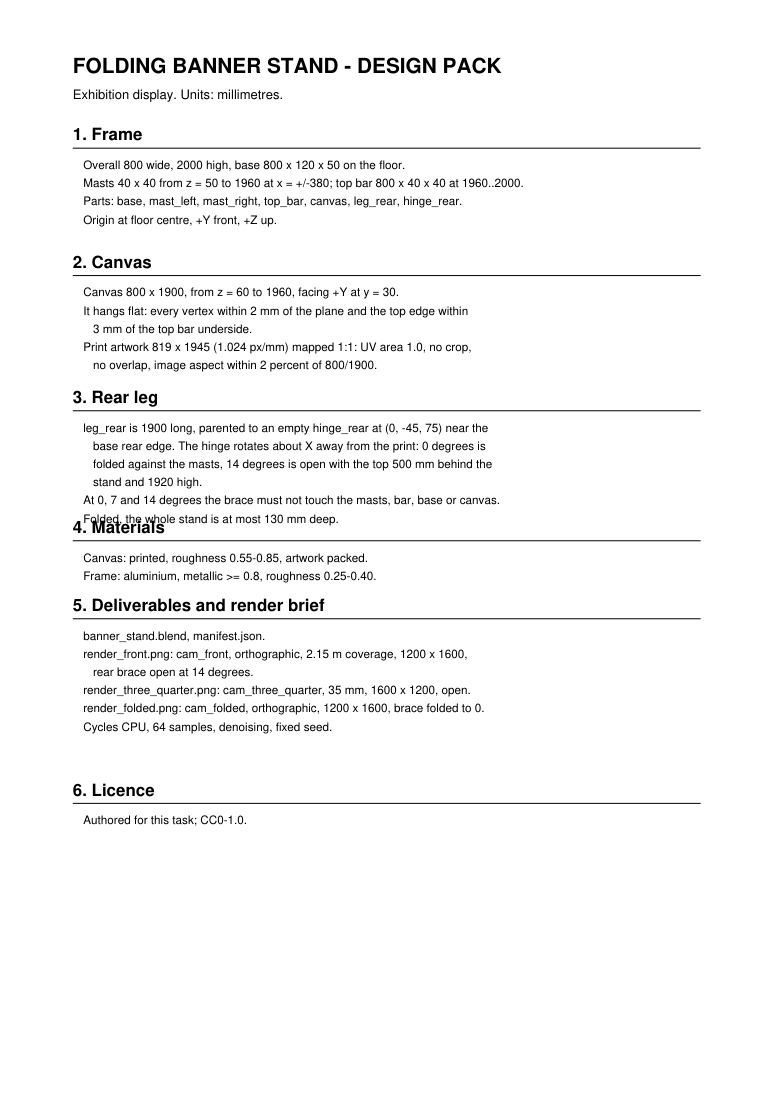
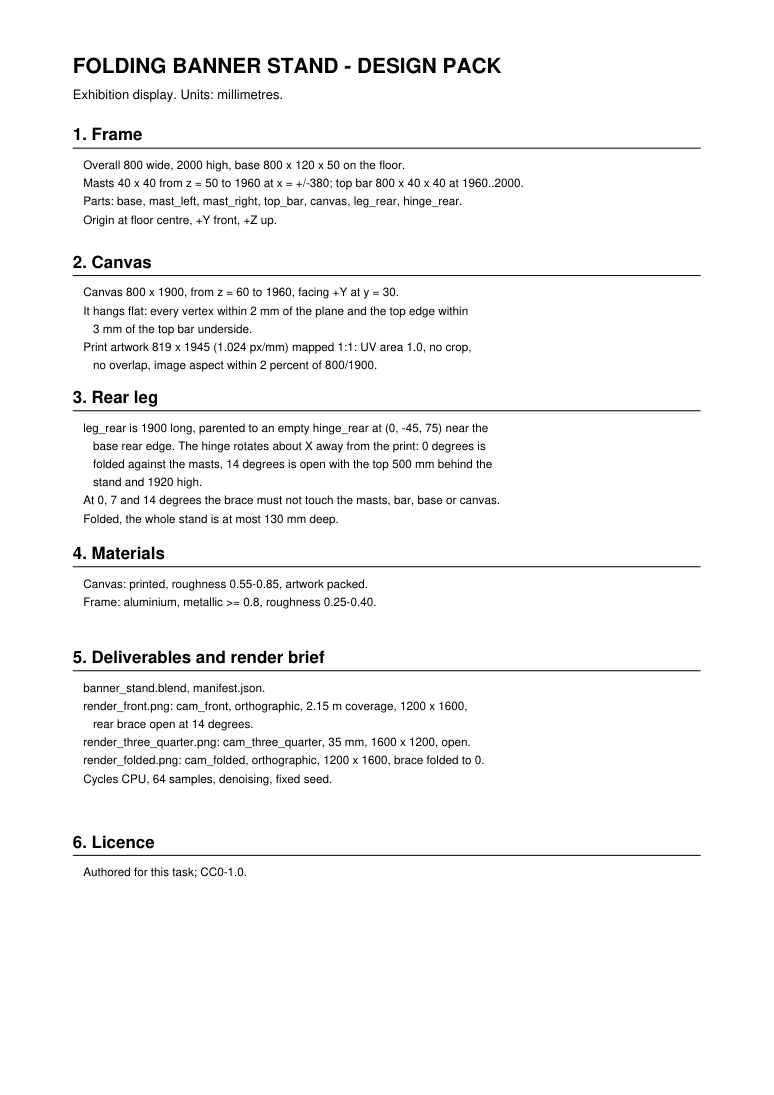
auto sync 2026-11-28 14:01:41

Changed region(s): [[0.093, 0.4658, 0.6202, 0.8073]]

diff --git a/tasks/cua/banner-stand/authoring/make_materials.py b/tasks/cua/banner-stand/authoring/make_materials.py
@@ -117,13 +117,13 @@ def spec_pdf(path):
         "Folded, the whole stand is at most 130 mm deep.",
     ]):
         pdf.text(64, 332 + 14 * i, line, 9)
-    heading(410, "4. Materials")
+    heading(430, "4. Materials")
     for i, line in enumerate([
         "Canvas: printed, roughness 0.55-0.85, artwork packed.",
         "Frame: aluminium, metallic >= 0.8, roughness 0.25-0.40.",
     ]):
-        pdf.text(64, 432 + 14 * i, line, 9)
-    heading(470, "5. Deliverables and render brief")
+        pdf.text(64, 452 + 14 * i, line, 9)
+    heading(510, "5. Deliverables and render brief")
     for i, line in enumerate([
         "banner_stand.blend, manifest.json.",
         "render_front.png: cam_front, orthographic, 2.15 m coverage, 1200 x 1600,",
@@ -132,9 +132,9 @@ def spec_pdf(path):
         "render_folded.png: cam_folded, orthographic, 1200 x 1600, brace folded to 0.",
         "Cycles CPU, 64 samples, denoising, fixed seed.",
     ]):
-        pdf.text(64, 492 + 14 * i, line, 9)
-    heading(612, "6. Licence")
-    pdf.text(64, 634, "Authored for this task; CC0-1.0.", 9)
+        pdf.text(64, 532 + 14 * i, line, 9)
+    heading(652, "6. Licence")
+    pdf.text(64, 674, "Authored for this task; CC0-1.0.", 9)
     pdf.save(path)
 
 
